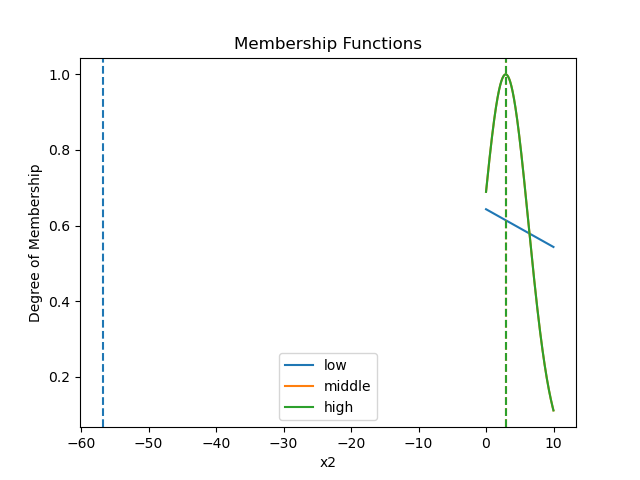
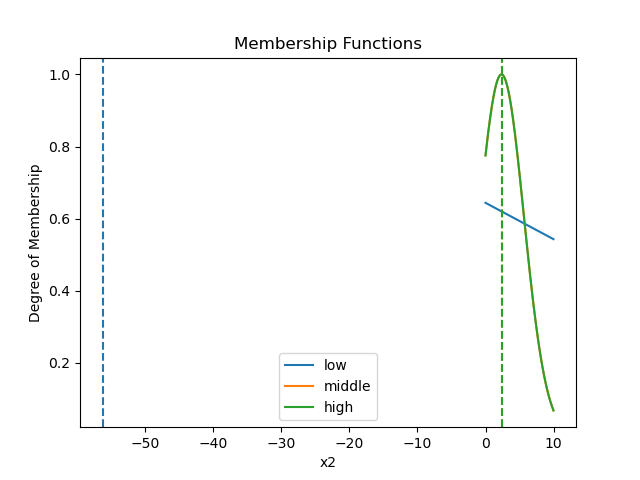
made antecedent and trainer scalable to more inputs (issue#5)

diff --git a/neurofuzzy_pkg/utils/MyArcTrainer.py b/neurofuzzy_pkg/utils/MyArcTrainer.py
@@ -253,24 +253,13 @@ class MyArcTrainer(Trainer):
 
         """
         
-        # imitate the whole meshgrid process like in antecedent layer
-       # x = np.array_split(para_prime, range(3, len(para_prime), 3))
-        #para_gridded = np.meshgrid(x[0], x[1]) 
-        #x.reverse()  # so it fits with convention 
-        #para_gridded = np.array(np.meshgrid(*x)) # the '*' unpacks x and passes to messgrid
        
-        print("delta", delta)
-        delta_x1 = np.sum(delta[0], axis=1)
-        delta_x2 = np.sum(delta[1], axis=0)
-        delta = np.concatenate((delta_x1, delta_x2))
+        deltas = [np.sum(d, axis=(i+1)%2) for i, d in enumerate(delta)]
+        deltas = np.array(deltas)
+        deltas = deltas.ravel()
+        deltas *= para_prime
 
-        delta *= para_prime
-
-
-
-       # delta = [d * p for d,p in zip(delta, para_gridded)]
-
-        # self.fuzzi ...
         param_to_tune = getattr(layer, param)
-        param_to_tune -= np.multiply(delta, self.learning_rate)
+        print("heh", param_to_tune)
+        param_to_tune -= np.multiply(deltas, self.learning_rate)
         setattr(layer, param, param_to_tune)

diff --git a/neurofuzzy_pkg/fuzzyLayers/RuleAntecedentLayer.py b/neurofuzzy_pkg/fuzzyLayers/RuleAntecedentLayer.py
@@ -80,9 +80,8 @@ class RuleAntecedentLayer():
        # self.inputs = x # saved for training
 
     
-        n = x.size 
-        k = self.n_participants 
-        self.n_rules = int(coefficient(n, k) - n)
+    
+        self.n_rules = int(self.n_mfs**self.n_participants)
 
         # x = np.array_split(x, range(self.n_mfs, len(x), self.n_mfs))
         # x =  np.meshgrid(x[0], x[1]) # hc
@@ -94,7 +93,8 @@ class RuleAntecedentLayer():
         x.reverse()  # so it fits with convention 
         x = np.array(np.meshgrid(*x)) # the '*' unpacks x and passes to messgrid
         self.inputs = x #  need meshgrid for training
-        x = (x[1] * x[0]).ravel()
+
+        x = np.prod(x, axis=0).ravel()
   
 
         assert self.n_rules == x.size, f'the number of rules generated: {x.size} has to equal: {self.n_rules} -> coefficient(inputs * n_mfs, participants) - inputs * n_mfs' 

diff --git a/main.py b/main.py
@@ -66,7 +66,7 @@ def main():
     # print(MLPModel.summary()) 
 
 
-    rules = ruleExtractor(MyModel, MLPModel, df_name)
+   # rules = ruleExtractor(MyModel, MLPModel, df_name)
     # rules.print_results()
     
     return 0

diff --git a/neurofuzzy_pkg/utils/ruleExtractor.py b/neurofuzzy_pkg/utils/ruleExtractor.py
@@ -45,8 +45,7 @@ class ruleExtractor():
 
     def get_if_part(self, feature_names, mfs):
 
-        feature_names = np.array(["x1", "x2"])
-        mfs = np.array(["low", "medium", "high"])
+ 
 
 
         x = feature_names
